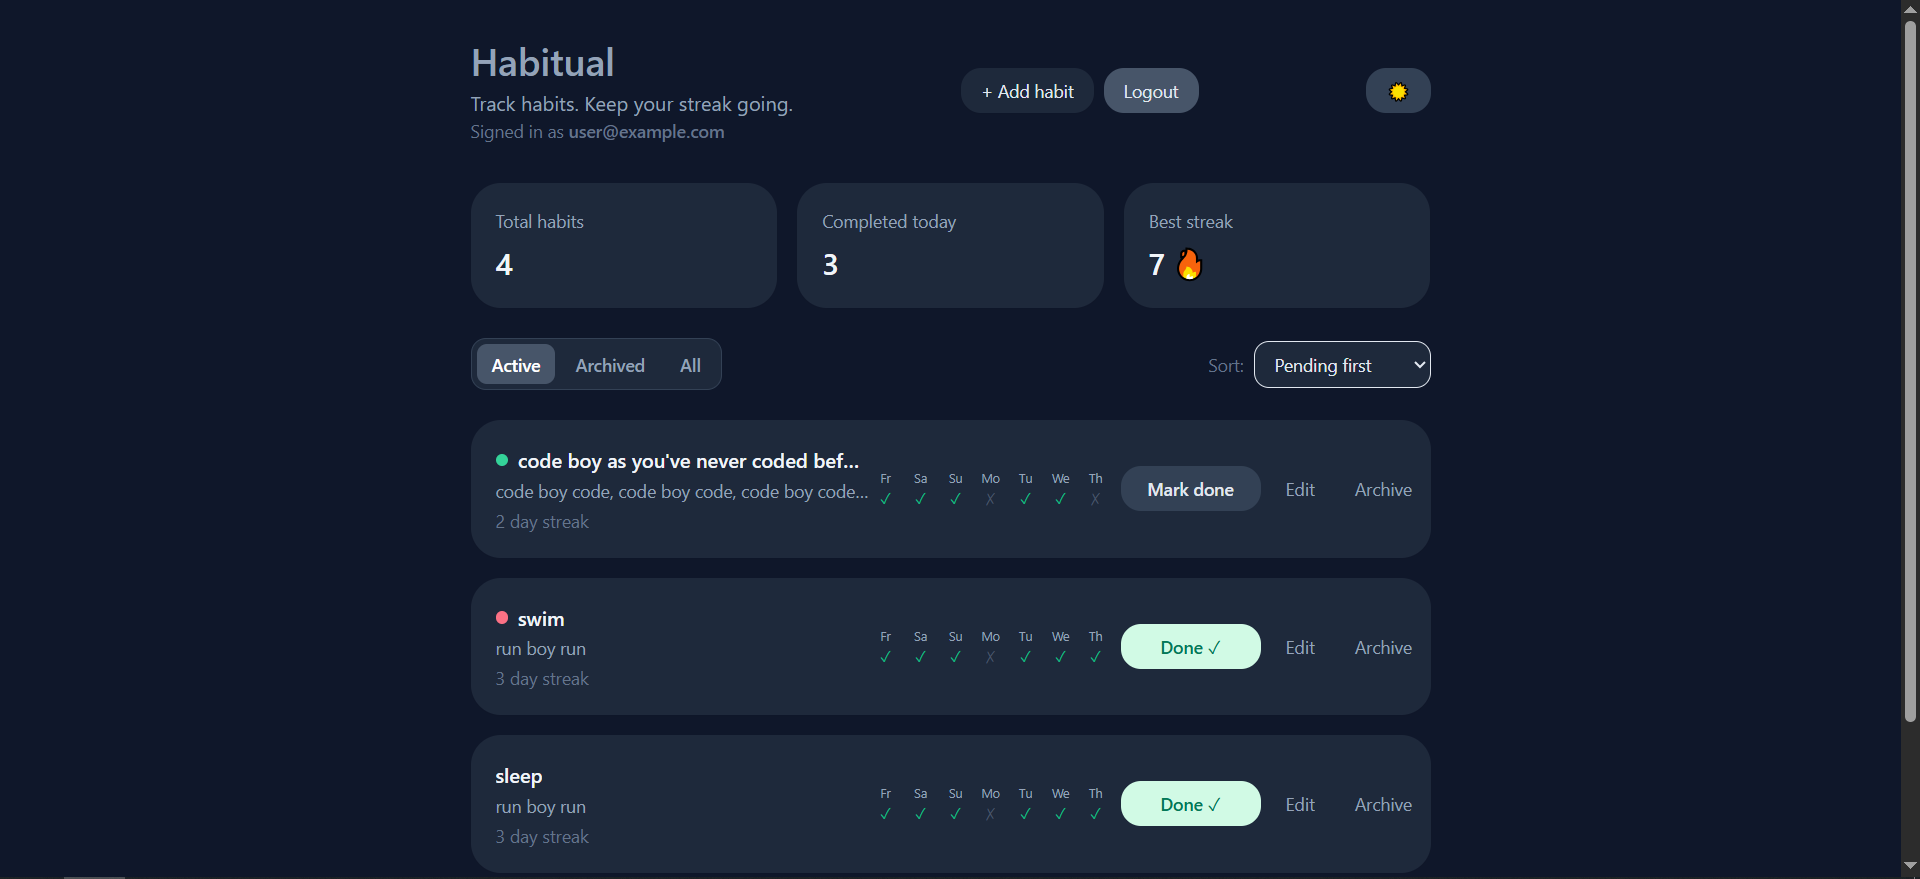
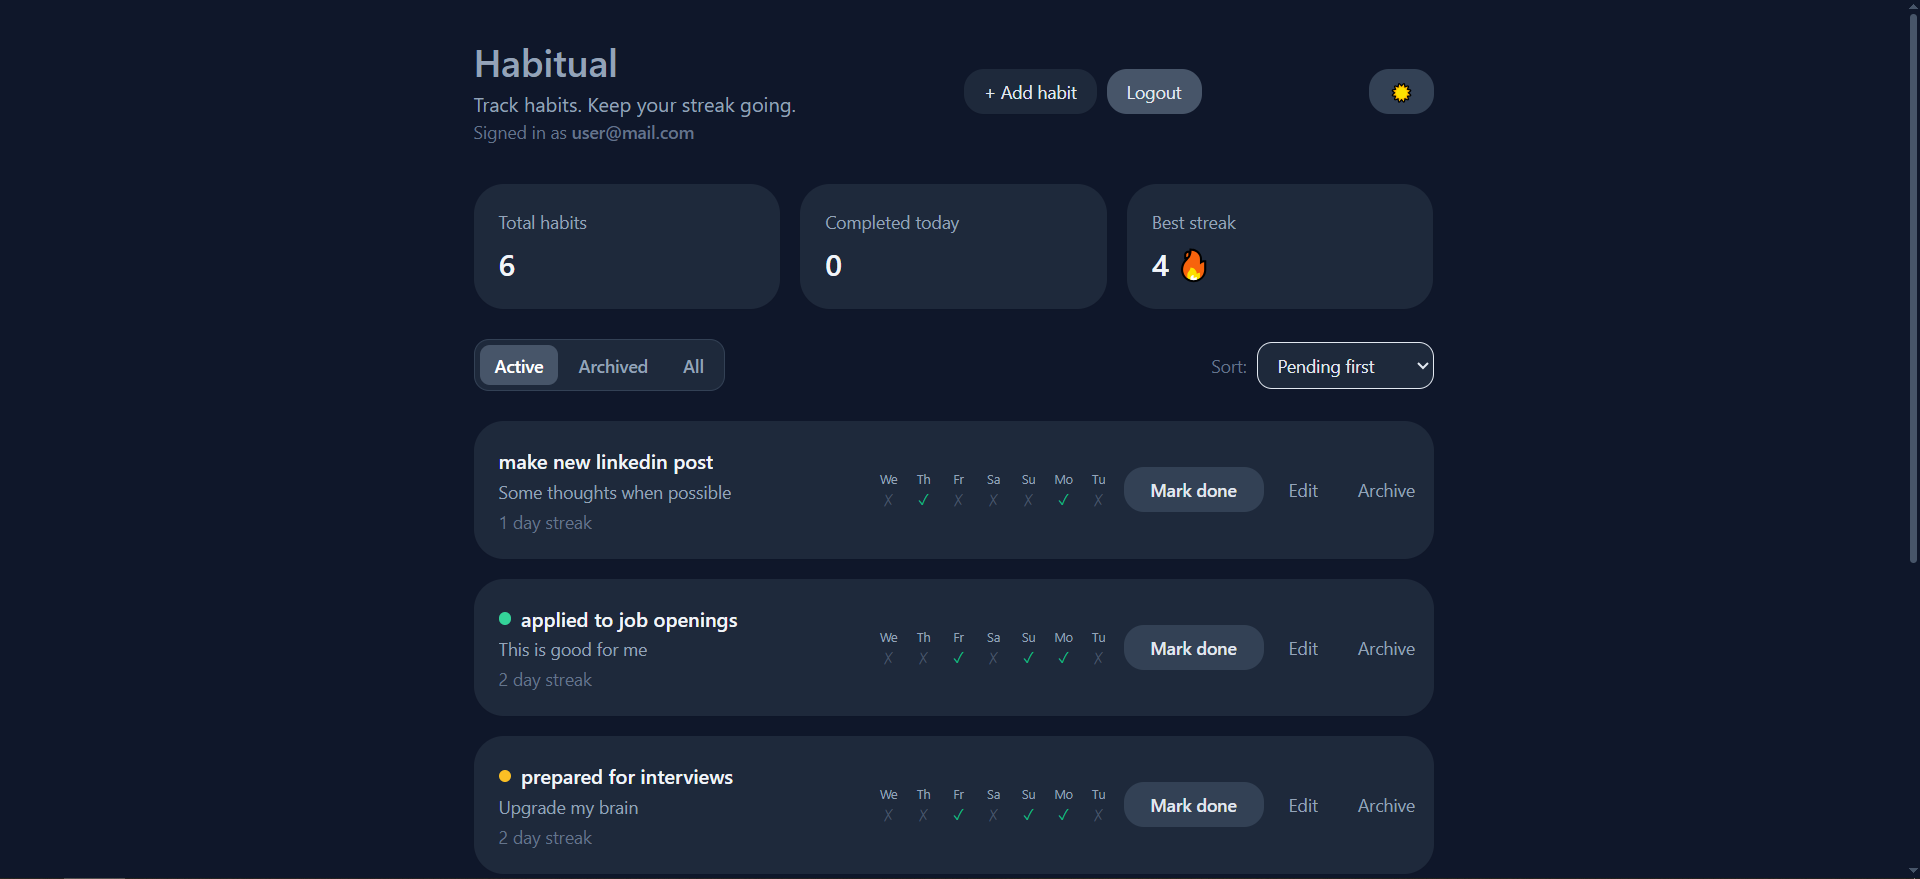
docs: improve frontend README

diff --git a/README.md b/README.md
@@ -4,16 +4,20 @@
 ![Vite](https://img.shields.io/badge/Vite-5-646CFF?style=flat-square&logo=vite)
 ![Tailwind CSS](https://img.shields.io/badge/Tailwind-3-38BDF8?style=flat-square&logo=tailwindcss)
 ![React Router](https://img.shields.io/badge/React_Router-7-CA4245?style=flat-square&logo=reactrouter)
-![Tests](https://img.shields.io/badge/e2e_tests-21%20passed-brightgreen?style=flat-square&logo=playwright)
+![Tests](https://img.shields.io/badge/e2e_tests-58%20passed-brightgreen?style=flat-square&logo=playwright)
 ![ESLint](https://img.shields.io/badge/ESLint-9-4B32C3?style=flat-square&logo=eslint)
 ![CI](https://github.com/Zhelero/habitual_ui/actions/workflows/ci.yml/badge.svg)
 
 ---
 
 ## Screenshots
-
+#### Login
 ![Login](./src/assets/screenshot-login.png)
+#### Dashboard
 ![Dashboard](./src/assets/screenshot-dashboard.png)
+#### Habit completion dialog
+![Dashboard-completion-dialog](./src/assets/screenshot-dashboard-completion-dialog.png)
+#### Habit page
 ![Habit](./src/assets/screenshot-habit-page.png)
 
 ---
@@ -28,12 +32,16 @@
 - 7-day activity strip on each dashboard habit card
 - Filter habits by Active / Archived / All, with a dedicated empty state per filter
 - Sort by pending, completed, streak, or alphabetically
-- Mark habits as done / undo
+- Mark habits as done / undo, with an optional note attached to today's completion
+- Edit today's note at any time; past days are read-only
+- Notes list on the habit detail page (newest first, today always shown when done)
+- Shared `Modal` component behind every dialog (create/edit habit, mark-done note, edit note) — closable via Escape or a click on the backdrop, with a live `x / 500` character counter on note inputs
 - Dedicated habit detail page (`/habits/:id`) with full stats and a full-size 30-day heatmap
+- Three-state heatmap (no activity / done / done + note) with a legend and a tooltip showing the note on hover
 - Persisted dark mode, applied consistently across every route
 - Filter and sort selection persisted in the URL (shareable, survives refresh, cleared on logout)
-- Auto-dismissing success messages
-- End-to-end test suite (Playwright) covering auth, habit CRUD, detail page, and color selection
+- Toast notifications for success and API validation errors (success toasts auto-dismiss, errors stay until closed)
+- End-to-end test suite (Playwright, 59 tests) covering auth, habit CRUD, dialogs, notes, heatmap, color selection, and dashboard persistence
 - CI pipeline (GitHub Actions): lint, then E2E tests run against a real backend + PostgreSQL, checked out and started inside the same workflow
 
 ---
@@ -70,17 +78,43 @@ src/
 
 ├── components/
 
-│   ├── HabitCard.jsx        # habit row on the dashboard list
+│   ├── HabitCard.jsx           # habit row on the dashboard list
 
-│   ├── HabitForm.jsx        # create / edit form
+│   ├── HabitsList.jsx          # renders the filtered/sorted list of HabitCards
 
-│   ├── Heatmap.jsx          # 30-day activity heatmap
+│   ├── HabitForm.jsx           # create / edit fields, shared by the dialog and embedded contexts
 
-│   ├── ThemeToggle.jsx      # dark mode switch
+│   ├── HabitDialog.jsx         # create/edit habit dialog (wraps HabitForm in Modal)
 
-│   ├── LoginForm.jsx        # login form
+│   ├── CompletionNoteDialog.jsx # optional note dialog shown when marking a habit done
 
-│   └── RegisterForm.jsx     # registration form
+│   ├── EditNoteDialog.jsx      # edit today's note dialog
+
+│   ├── NotesList.jsx           # notes list on the habit detail page
+
+│   ├── Modal.jsx               # shared dialog shell — Escape/backdrop-click to close
+
+│   ├── Heatmap.jsx             # 30-day activity heatmap (none / done / done+note)
+
+│   ├── DashboardHeader.jsx     # dashboard title + add-habit entry point
+
+│   ├── DashboardStats.jsx      # total / completed-today / best-streak summary
+
+│   ├── DashboardToolbar.jsx    # filter (Active/Archived/All) and sort controls
+
+│   ├── Toast.jsx               # single toast (success auto-dismisses, error persists)
+
+│   ├── ToastContainer.jsx      # toast stacking/positioning
+
+│   ├── ThemeToggle.jsx         # dark mode switch
+
+│   ├── LoadingScreen.jsx       # route-level loading state
+
+│   ├── ErrorScreen.jsx         # route-level error state
+
+│   ├── LoginForm.jsx           # login form
+
+│   └── RegisterForm.jsx        # registration form
 
 ├── context/
 
@@ -94,11 +128,15 @@ src/
 
 │   ├── useHabits.js         # list + stats fetching for the dashboard
 
-│   └── useHabit.js          # single habit + stats + heatmap for the detail page
+│   ├── useHabit.js          # single habit + stats + heatmap for the detail page
+
+│   └── useHabitActions.js   # create/edit/archive/mark-done/note mutations shared by dashboard and detail page
 
 ├── utils/
 
 │   ├── sortHabits.js
+
+│   ├── apiErrors.js         # getApiErrorMessage — formats API validation errors for toasts
 
 │   └── habitColors.js       # HABIT_COLORS palette + habitColorClass helper
 
@@ -106,7 +144,7 @@ src/
 
 ├── HabitualDashboard.jsx      # dashboard: list, filters, sorting
 
-├── HabitDetailPage.jsx        # /habits/:id — full stats, heatmap, edit/archive
+├── HabitDetailPage.jsx        # /habits/:id — full stats, heatmap, notes, edit/archive
 
 ├── api.js                     # API client with auth headers
 
@@ -114,21 +152,29 @@ src/
 
 └── main.jsx                   # React Router + AuthProvider setup
 
-e2e/                          # Playwright end-to-end tests
+e2e/                          # Playwright end-to-end tests (59 tests)
 
-├── auth.spec.js               # login / registration / token refresh
+├── auth.spec.js                 # login / registration / token refresh
 
-├── habits.spec.js             # habit CRUD, filters, sorting
+├── habits.spec.js               # habit CRUD, editing, archiving, validation
 
-├── habit-detail.spec.js       # detail page stats, edit, archive
+├── habit-detail.spec.js         # detail page navigation, stats, edit, archive
 
-├── habit-color.spec.js        # color picker and color persistence
+├── habit-heatmap.spec.js        # heatmap cell states and legend
 
-├── fixtures.js                 # authedPage / registeredUser fixtures
+├── notes-list.spec.js           # notes list rendering, editing, persistence
 
-├── helpers.js                  # shared test helpers (createHabitViaUI, uniqueEmail)
+├── modal.spec.js                # dialog behavior (Escape/backdrop/Cancel, char counter) across all dialogs
 
-└── global-setup.js             # test environment bootstrap
+├── dashboard-persistence.spec.js # theme, completion state, and filter surviving reload
+
+├── habit-color.spec.js          # color picker and color persistence
+
+├── fixtures.js                   # authedPage / registeredUser fixtures
+
+├── helpers.js                    # shared test helpers (createHabitViaUI, markHabitDoneViaUI, uniqueEmail)
+
+└── global-setup.js               # test environment bootstrap
 
 .github/workflows/
 
